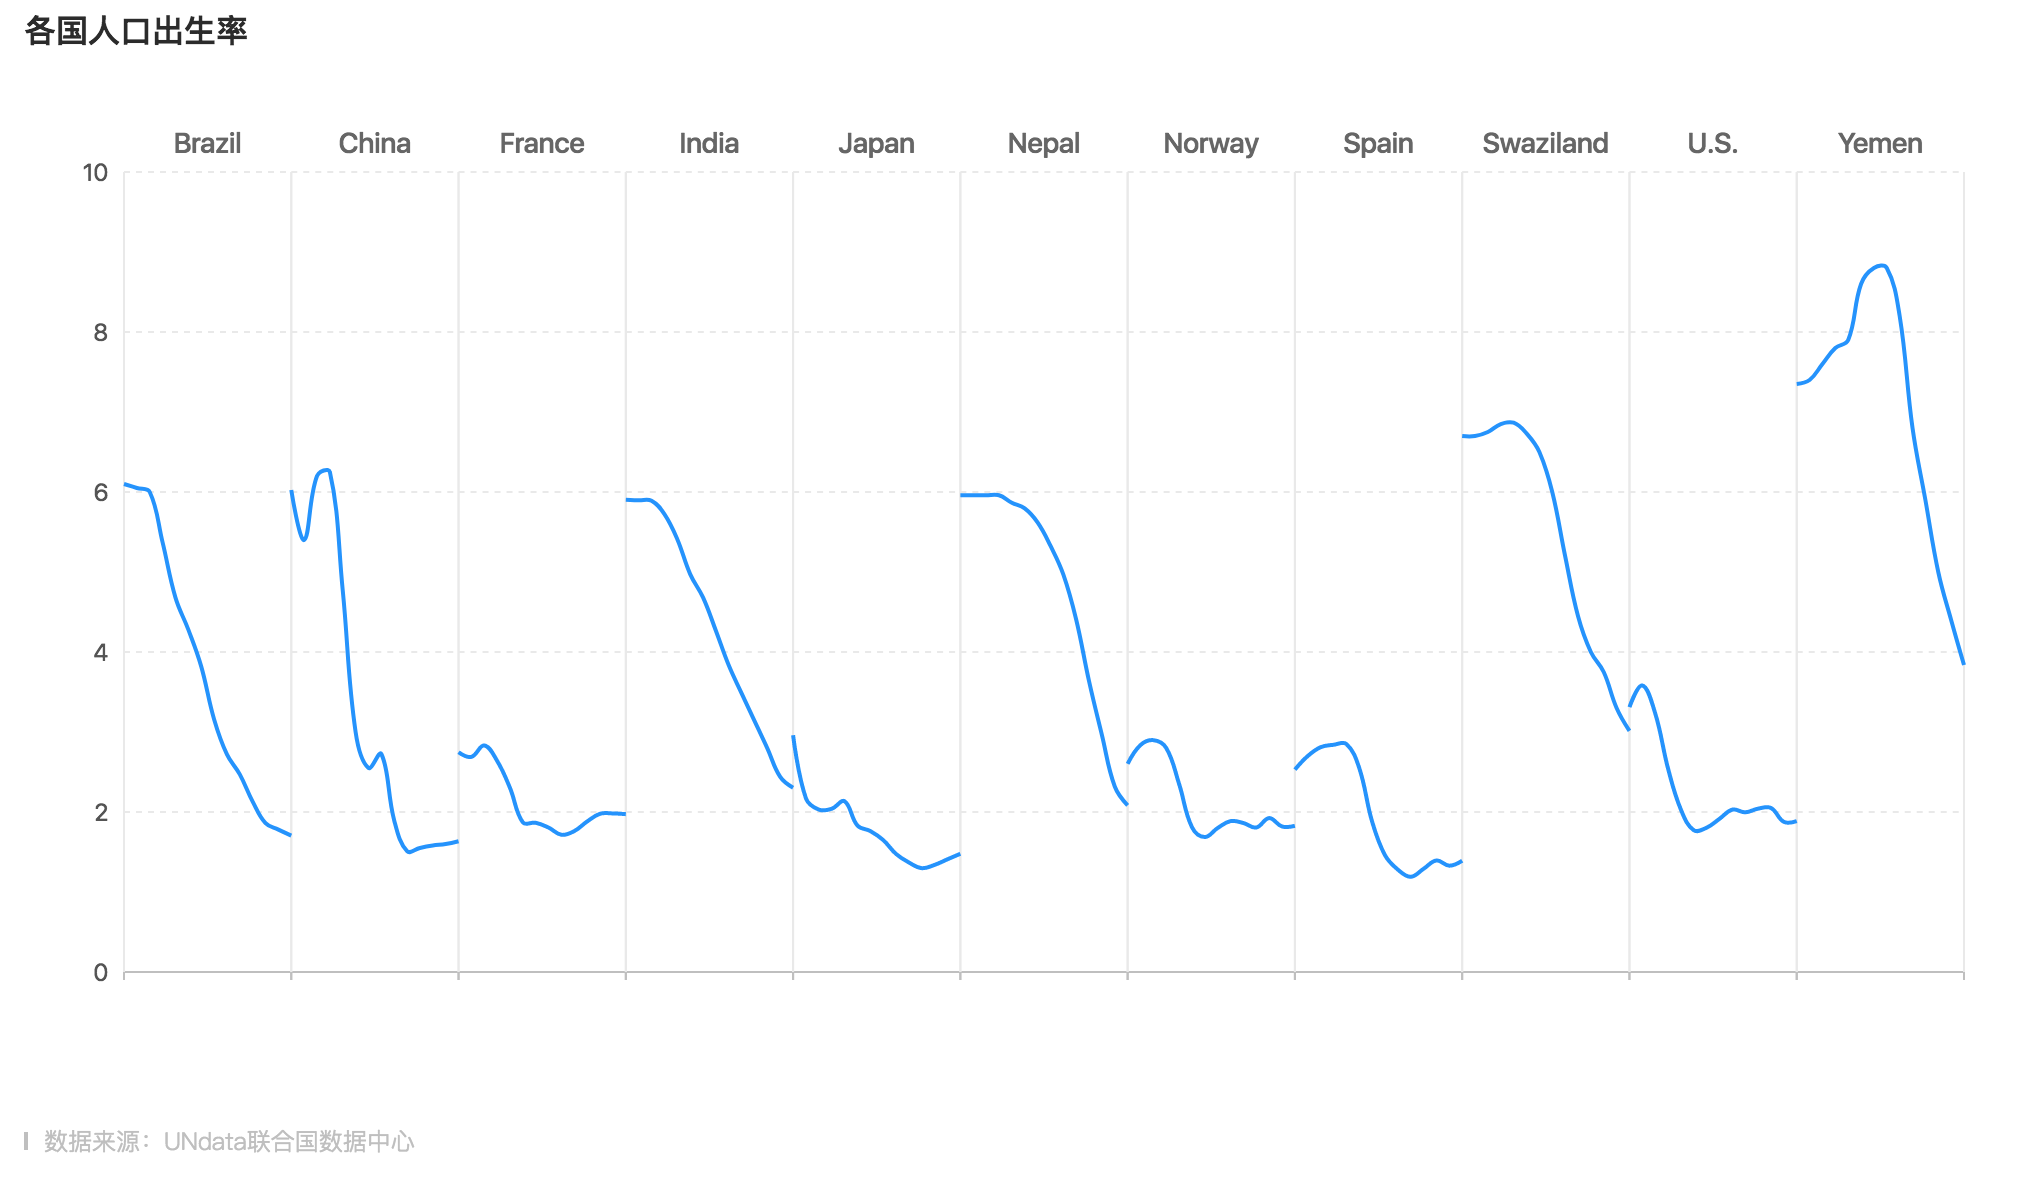
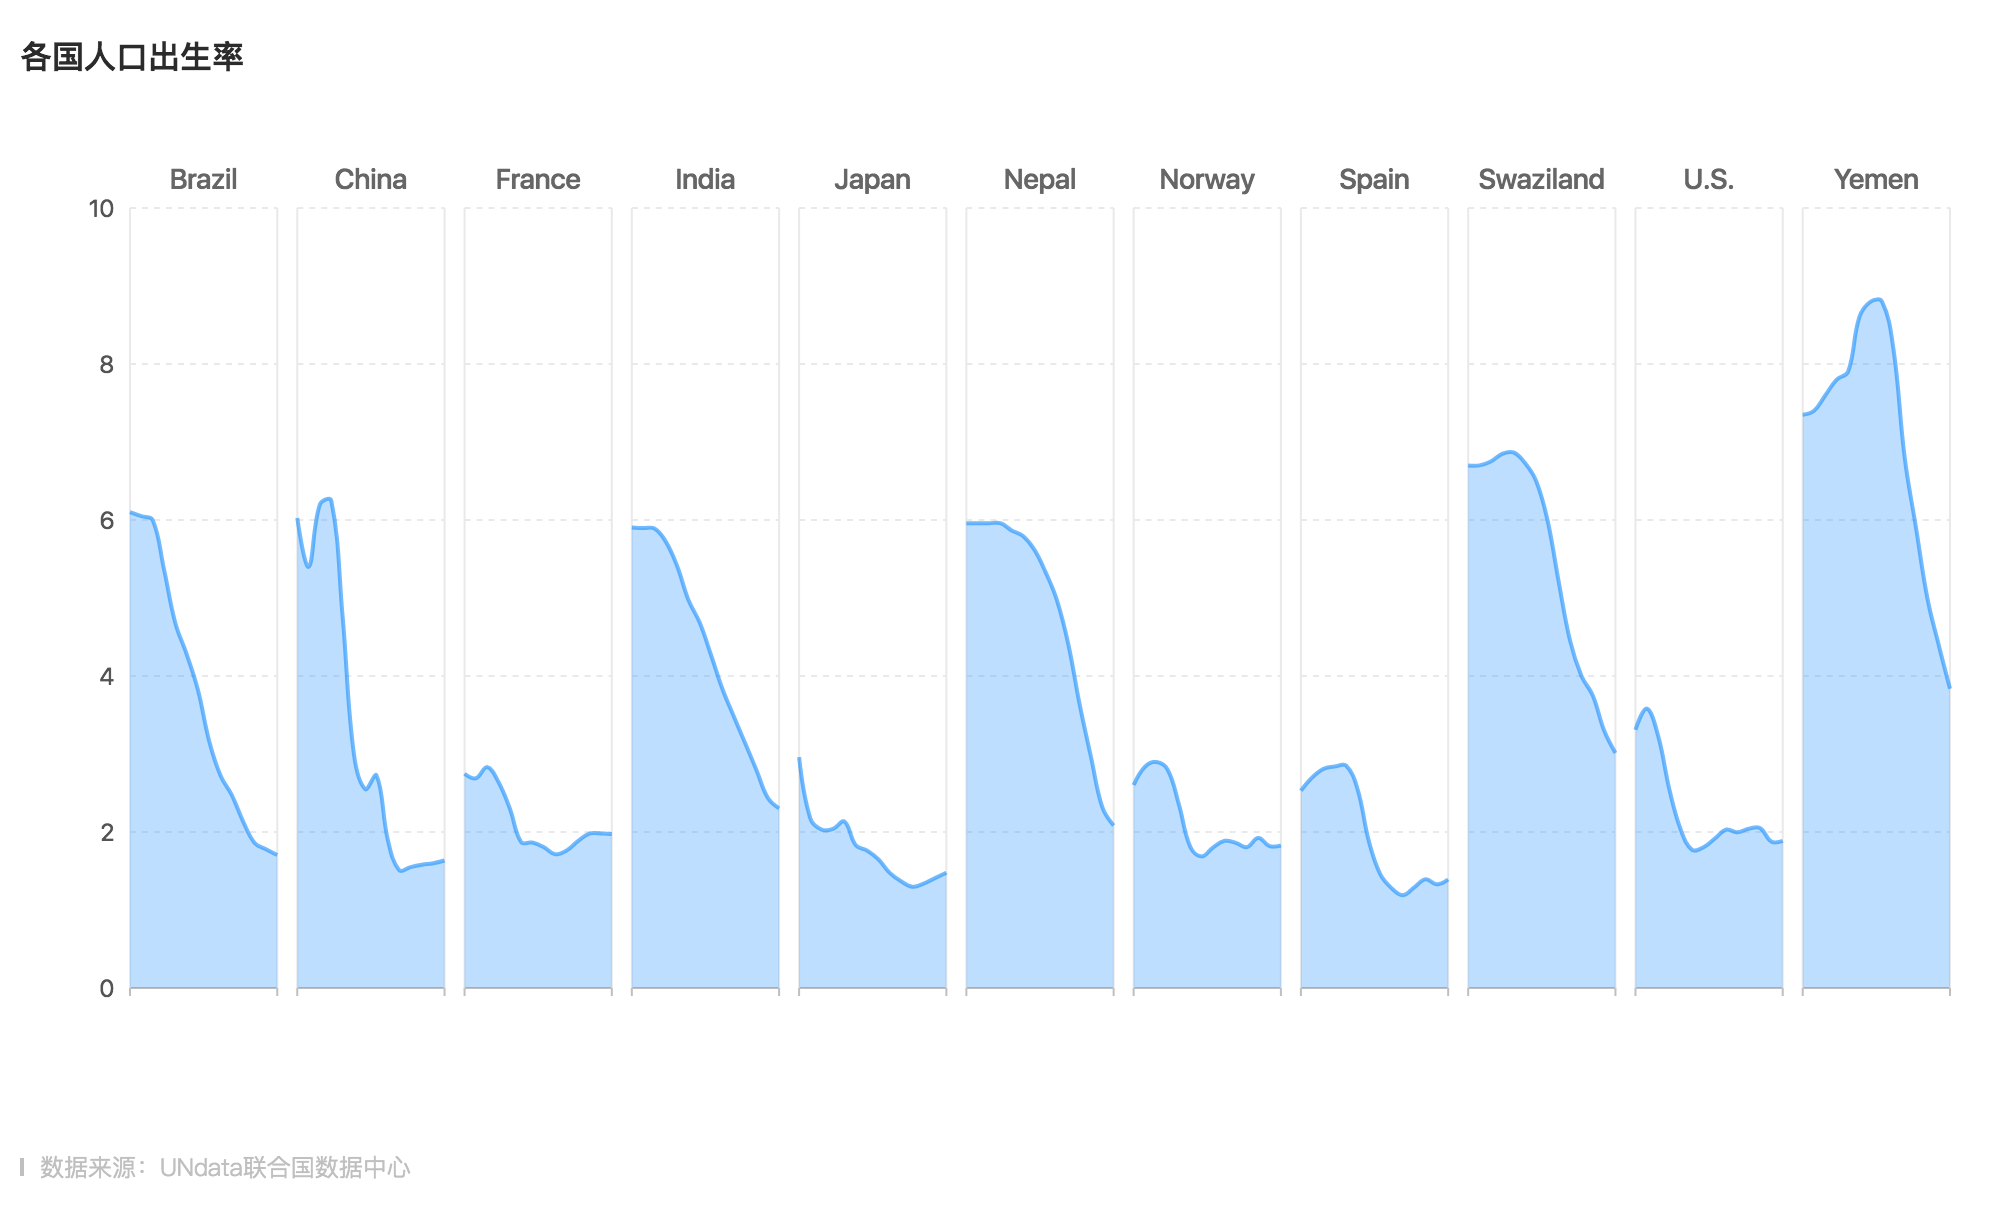
add facet demo 2

diff --git a/demos/facet2.html b/demos/facet2.html
@@ -31,52 +31,58 @@
                 container: 'canvas',
                 width: $('#canvas').width(),
                 height: $('#canvas').height(),
-                padding: [50, 20, 50, 50],
+                padding: [20, 20, 30, 120],
                 renderer: 'svg'
             });
             chart.source(dv, {
-                'value': {
+                value: {
                     max: 9,
                     min: 1
                 }
             });
+
             chart.scale('year', {
-                range: [0, 1],
-                tickCount: 2
+                range: [0, 1]
             });
-            chart.axis('year', {
-                grid: {
-                    lineStyle: {
-                        lineDash: [0, 0],
-                        lineWidth: 1,
-                        stroke: '#e9e9e9'
-                    }
-                },
-                label: {
-                    textStyle: (text) => {
-                        if (text === '1950') {
-                            return {
-                                textAlign: 'start',
-                                fontSize: 14,
-                                fill: '#aaaaaa',
-                            };
-                        } else {
-                            return {
-                                textAlign: 'start',
-                                fontSize: 14,
-                                fill: '#aaaaaa',
-                            };
-                        }
+
+            chart.scale('value', {
+                tickCount: 2,
+                sync: true,
+                formatter: (value) => {
+                    return value + '%';
+                }
+            });
+
+            chart.axis('value', {
+                grid: null,
+                label:{
+                    textStyle:{
+                        fontSize:12,
+                        fill:'#aaaaaa'
                     }
                 }
             });
 
+            chart.axis('year', {
+                tickLine: {
+                    length: 0
+                }
+            });
+            
             chart.facet('rect', {
-                fields: ['country'],
-                padding: 5,
+                rowTitle: {
+                    offsetX: (window.innerWidth - 100) * -1,
+                    style: {
+                        fontSize: 14,
+                        textAlign: 'end',
+                        rotate: 0,
+                        fill: '#444'
+                    }
+                },
+                fields: [null, 'country'],
+                padding: 10,
                 eachView: function eachView(view) {
-                    view.area().position('year*value').shape('smooth').opacity(0.3);
-                    view.line().position('year*value').shape('smooth').opacity(0.8);
+                    view.line().position('year*value').shape('smooth');
                 }
             });
             chart.render();
